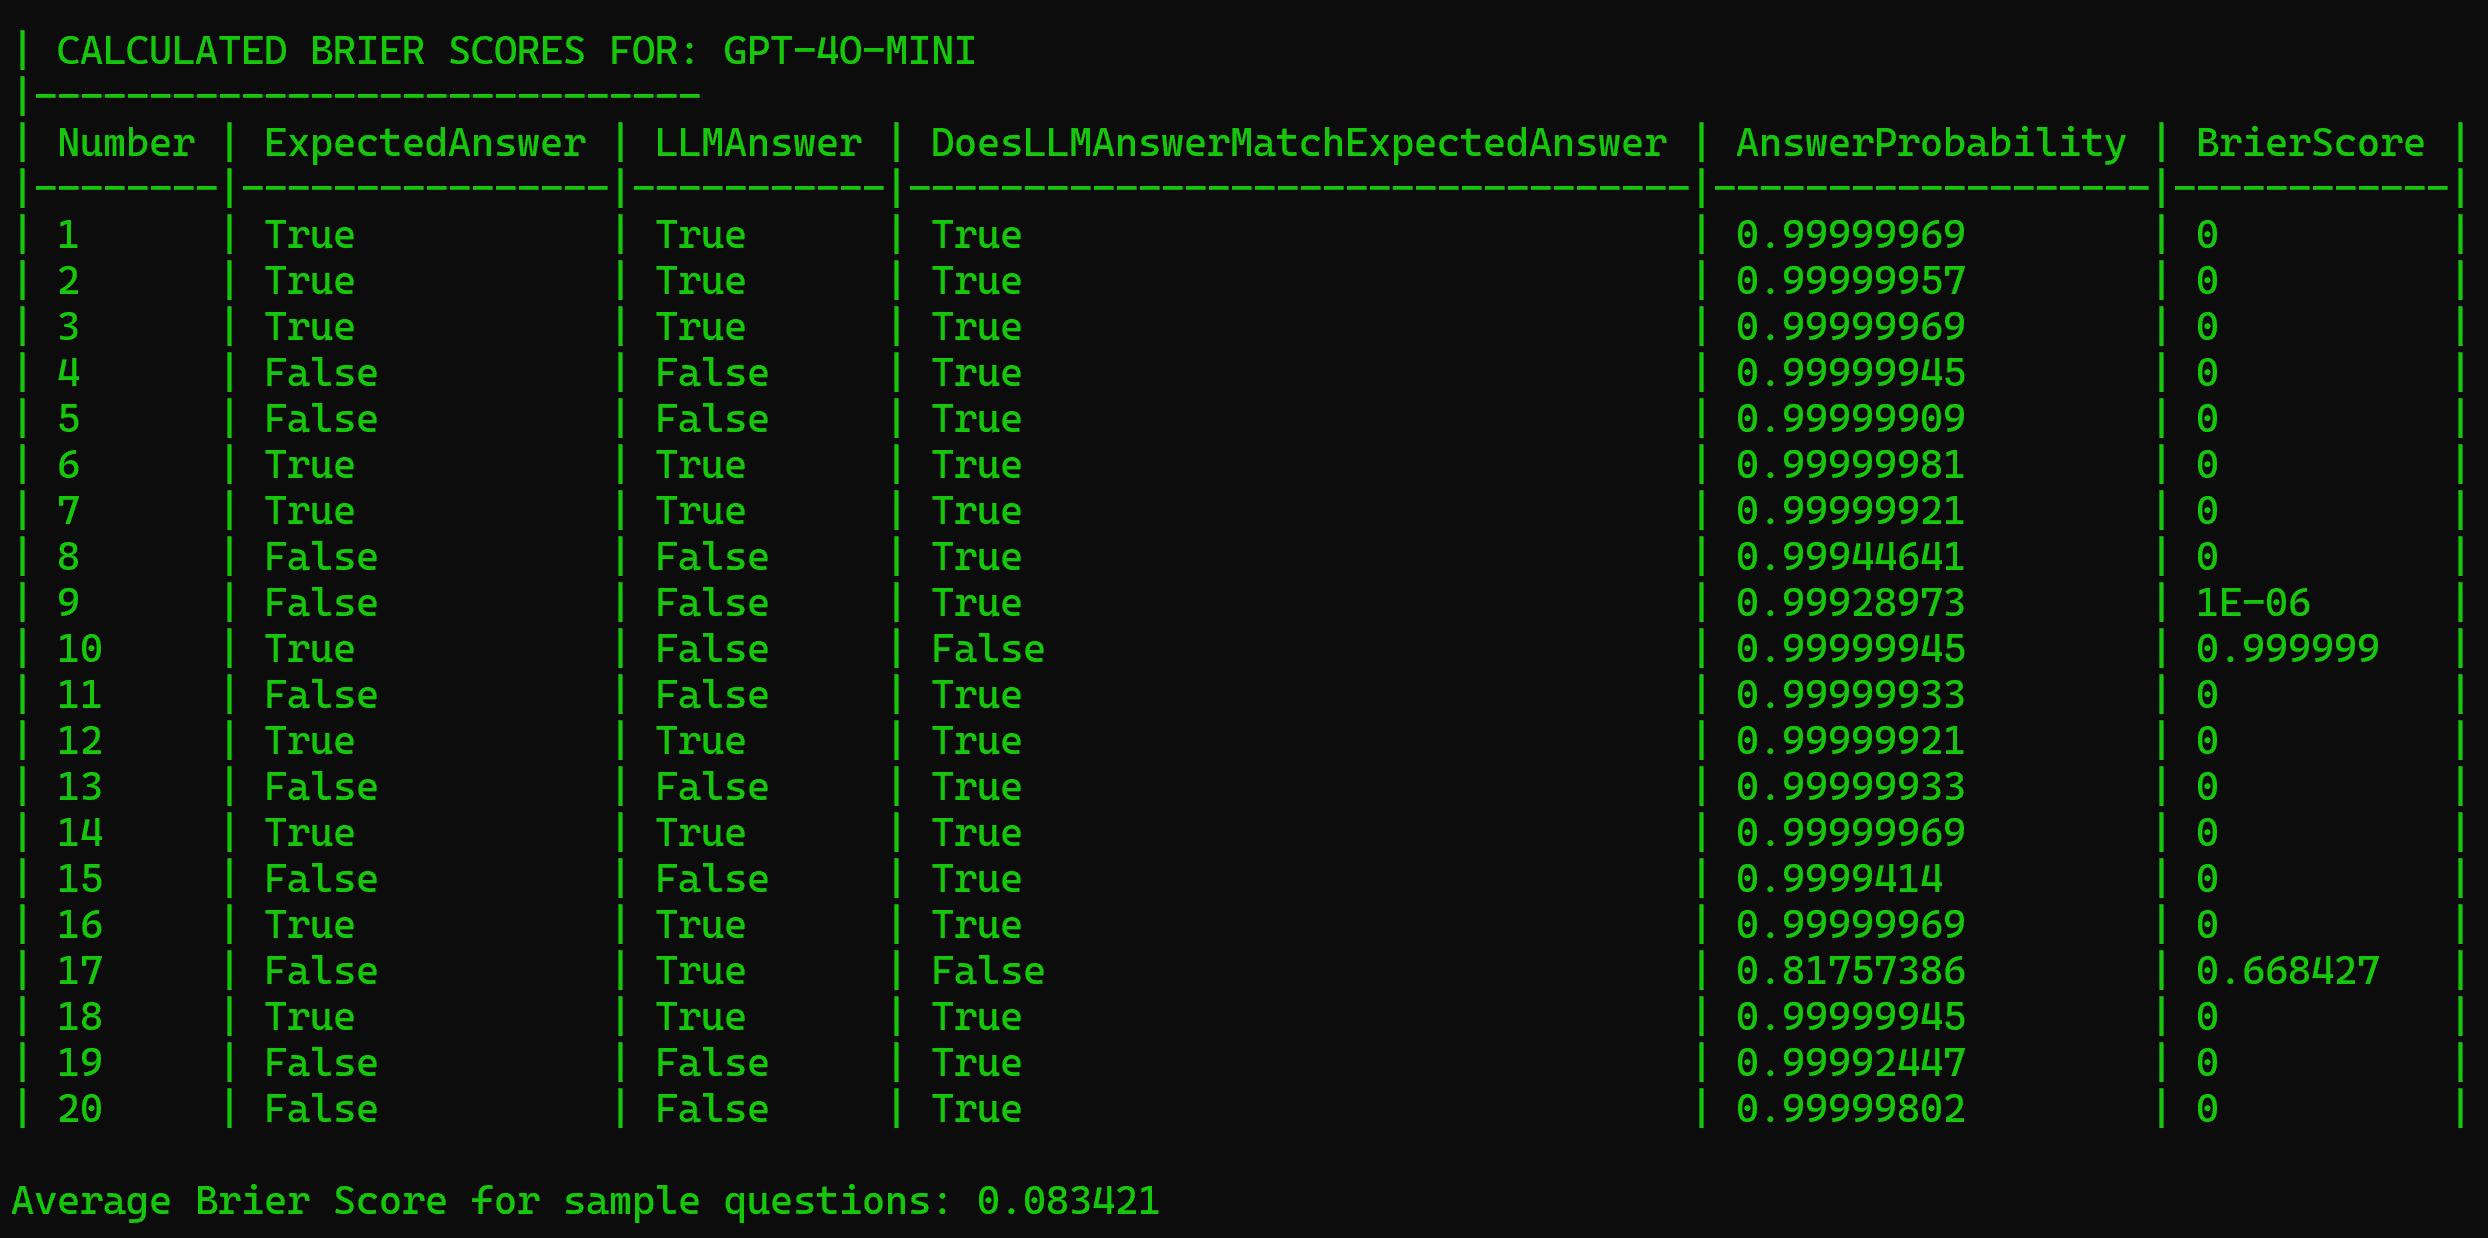
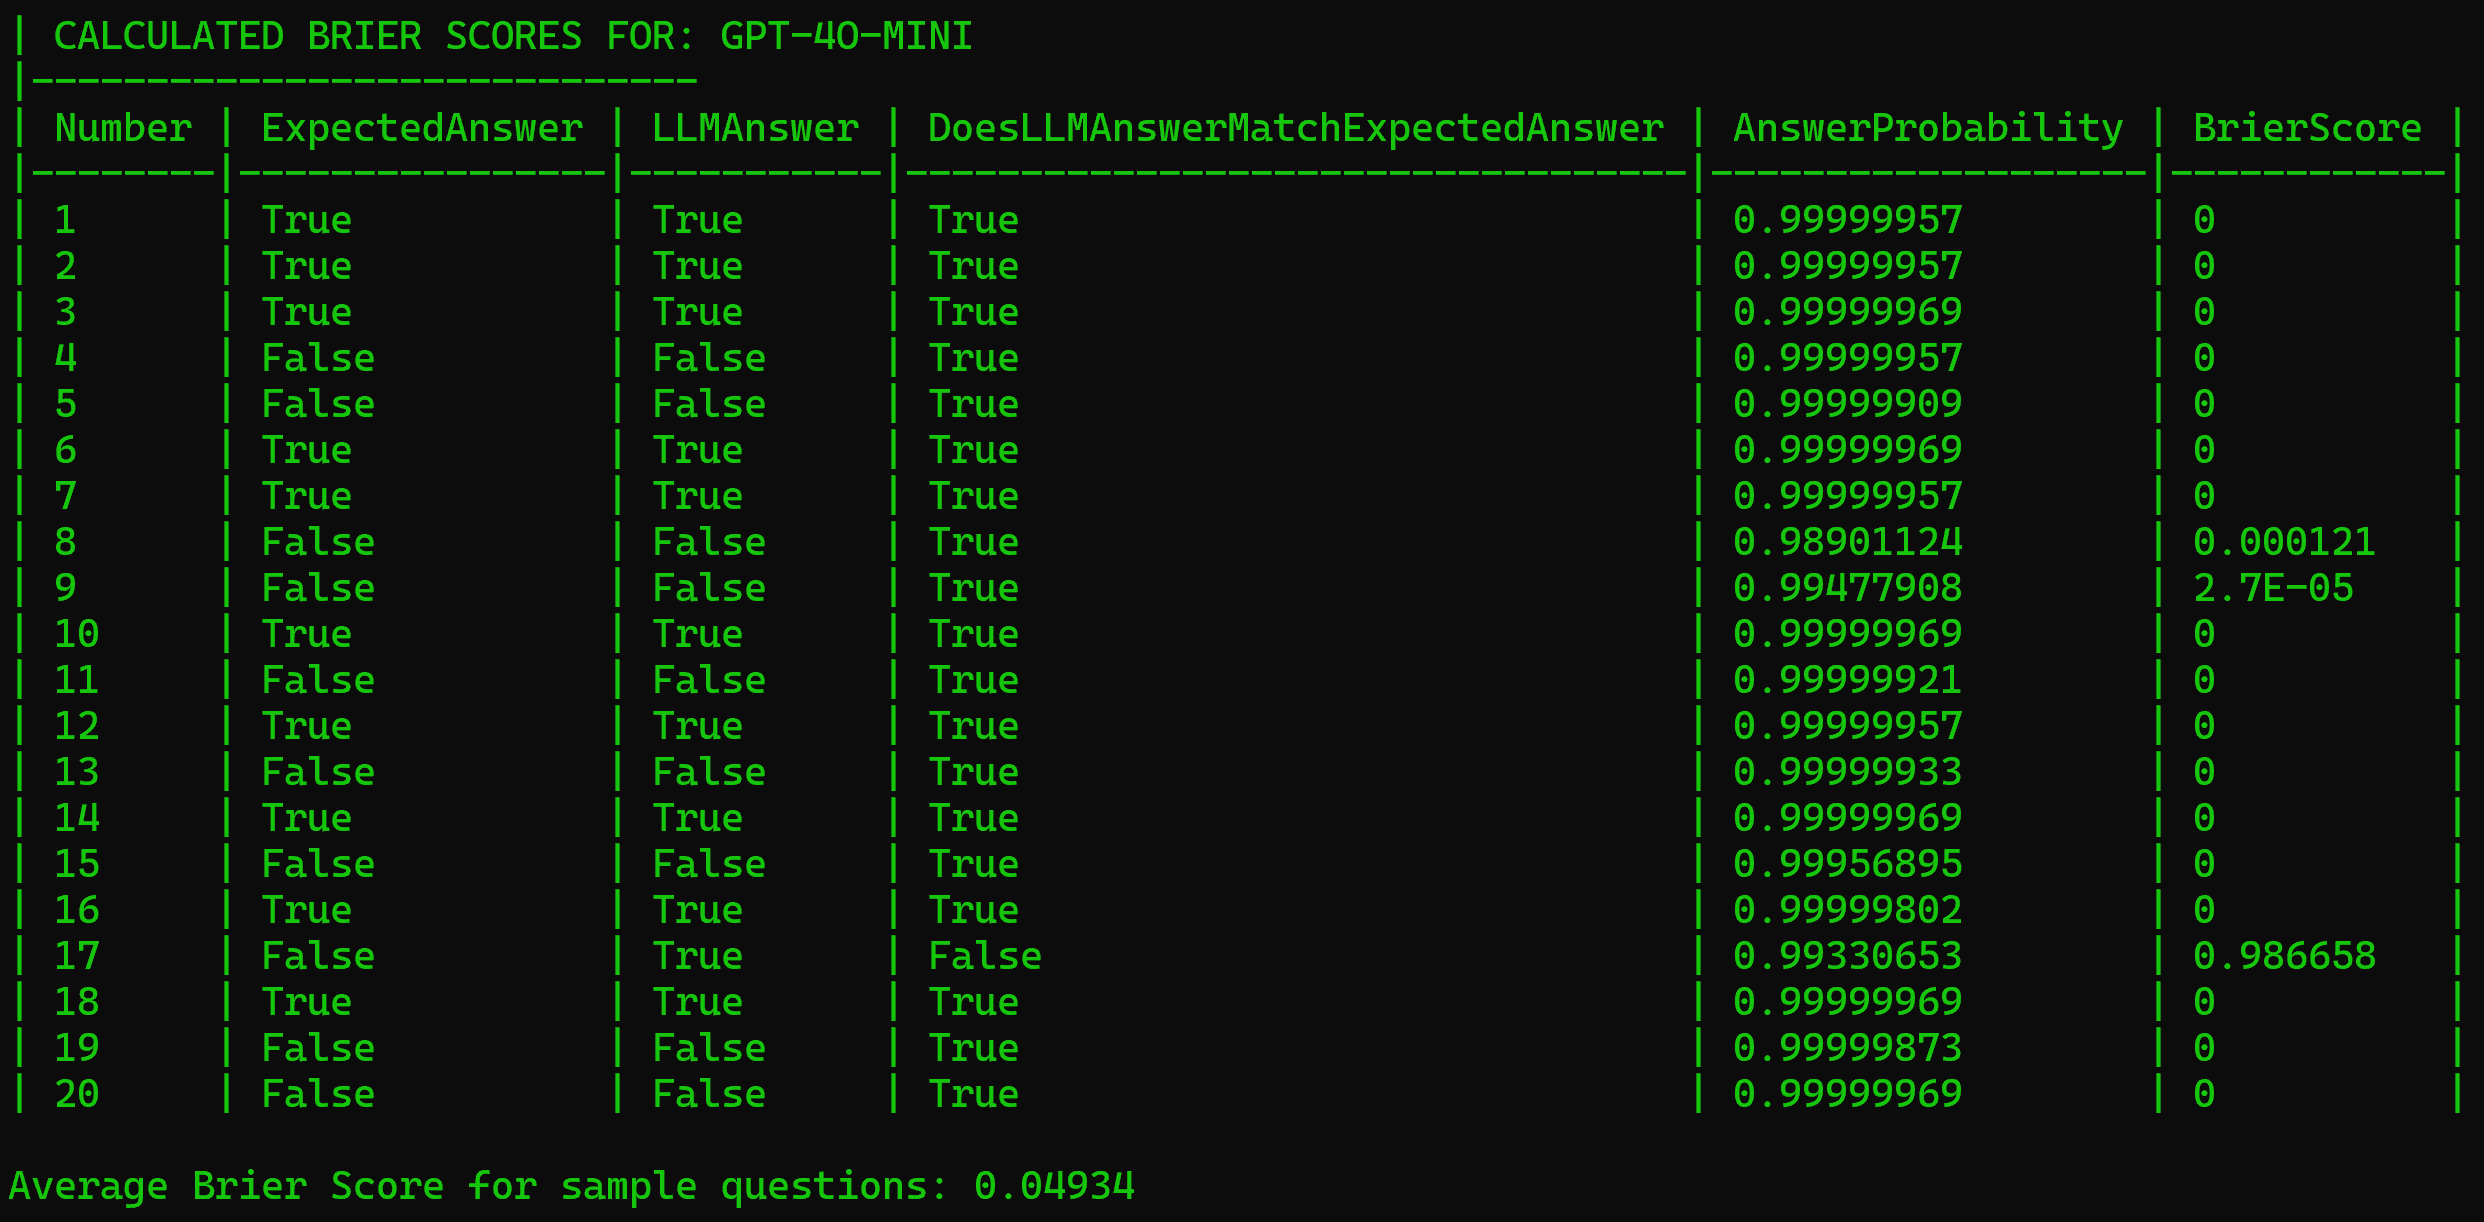
Updates to images and questions

Changed region(s): [[0.0, 0.0, 0.9919, 0.9018], [0.0, 0.9329, 0.465, 0.9951]]

diff --git a/AzureOpenAILogProbs/Services/Questions.cs b/AzureOpenAILogProbs/Services/Questions.cs
@@ -52,25 +52,25 @@ namespace AzureOpenAILogProbs.Services
             var questions = new List<Question>
                 {
                 new Question{ Number = 1, EnoughInformationInProvidedContext = true, QuestionText = "When where the Mets founded?" },
-                new Question{ Number = 2, EnoughInformationInProvidedContext = true, QuestionText = "Are the Mets a baseball team?" },
+                new Question{ Number = 2, EnoughInformationInProvidedContext = true, QuestionText = "Are the Mets a baseball team or basketball team?" },
                 new Question{ Number = 3, EnoughInformationInProvidedContext = true, QuestionText = "Who owns the Mets?" },
                 new Question{ Number = 4, EnoughInformationInProvidedContext = false, QuestionText = "Have the Mets won the 2023 World Series?" },
                 new Question{ Number = 5, EnoughInformationInProvidedContext = false, QuestionText = "Who are the Boston Red Sox?" },
                 new Question{ Number = 6, EnoughInformationInProvidedContext = true, QuestionText = "Where the Mets were a bad team in the 1960s?" },
-                new Question{ Number = 7, EnoughInformationInProvidedContext = true, QuestionText = "Do the Mets uniforms include the colors blue and orange?" },
+                new Question{ Number = 7, EnoughInformationInProvidedContext = true, QuestionText = "Do the Mets uniforms include what to primary colors?" },
                 new Question{ Number = 8, EnoughInformationInProvidedContext = false, QuestionText = "Are the there only 2 colors on the Mets uniform?" },
                 new Question{ Number = 9, EnoughInformationInProvidedContext = false, QuestionText = "Do you think the Mets fans are happy with the Mets historical performance?" },
-                new Question{ Number = 10, EnoughInformationInProvidedContext = true, QuestionText = "Did the Mets have a winning season in their inaugural season of play?" },
-                new Question{ Number = 11, EnoughInformationInProvidedContext = false, QuestionText = "Has Steve Cohen been the longest-serving owner of the Mets?" },
-                new Question{ Number = 12, EnoughInformationInProvidedContext = true, QuestionText = "Is Mr. Met the official mascot of the New York Mets?" },
-                new Question{ Number = 13, EnoughInformationInProvidedContext = false, QuestionText = "Is Mr. Met the official mascot of the New York Yankees?" },
-                new Question{ Number = 14, EnoughInformationInProvidedContext = true, QuestionText = "Do the New York Mets have notable rivalries with three other baseball teams?" },
+                new Question{ Number = 10, EnoughInformationInProvidedContext = true, QuestionText = "What was the Mets record in their inaugural season of play?" },
+                new Question{ Number = 11, EnoughInformationInProvidedContext = false, QuestionText = "Who has been the longest-serving owner of the Mets?" },
+                new Question{ Number = 12, EnoughInformationInProvidedContext = true, QuestionText = "Who or what is the official mascot of the New York Mets?" },
+                new Question{ Number = 13, EnoughInformationInProvidedContext = false, QuestionText = "Who or what is the official mascot of the New York Yankees?" },
+                new Question{ Number = 14, EnoughInformationInProvidedContext = true, QuestionText = "Who are the three other baseball teams the New York Mets have notable rivalries with?" },
                 new Question{ Number = 15, EnoughInformationInProvidedContext = false, QuestionText = $"The current year is: {DateTime.Now.Year}. Do you have a current year of the New York Met's worth?" },
-                new Question{ Number = 16, EnoughInformationInProvidedContext = true, QuestionText = "Are the Mets current notable rivals the Phillies, Braves and the Yankees?" },
+                new Question{ Number = 16, EnoughInformationInProvidedContext = true, QuestionText = "The Mets current notable rivals the Phillies, Braves and which third team?" },
                 new Question{ Number = 17, EnoughInformationInProvidedContext = false, QuestionText = "Is the Atlanta Braves rivalry due to both geographic and division reasons?" },
-                new Question{ Number = 18, EnoughInformationInProvidedContext = true, QuestionText = "Do the Mets have a registered foundation?" },
-                new Question{ Number = 19, EnoughInformationInProvidedContext = false, QuestionText = "Is the New York Mets Foundation the ONLY charity or foundation from the Mets?" },
-                new Question{ Number = 20, EnoughInformationInProvidedContext = false, QuestionText = "Do the Mets have a charity cause for both the September 11th attacks and World War 2 veterans?" }
+                new Question{ Number = 18, EnoughInformationInProvidedContext = true, QuestionText = "What is the Mets registered foundation's name?" },
+                new Question{ Number = 19, EnoughInformationInProvidedContext = false, QuestionText = "What are the names of the Mets two foundations?" },
+                new Question{ Number = 20, EnoughInformationInProvidedContext = false, QuestionText = "What is the Mets charity for both World War 2 veterans and September 11th attacks?" }
             };
 
             return questions;
